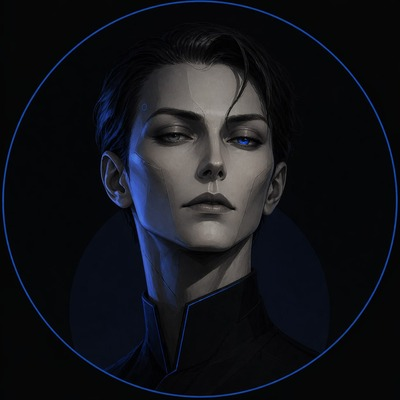
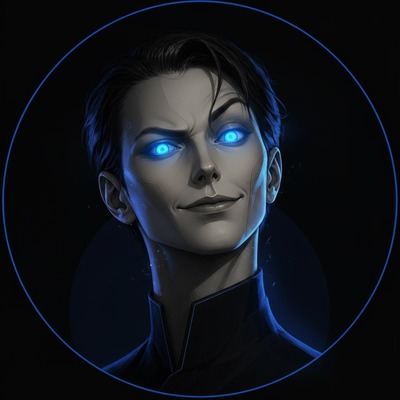
Replace Dex portraits — idle/thinking/working/success states

Changed region(s): [[0.21, 0.12, 0.81, 0.93], [0.48, 0.09, 0.54, 0.12], [0.6, 0.12, 0.63, 0.15]]

diff --git a/README.md b/README.md
@@ -270,9 +270,9 @@ Scope: personal productivity — inbox, calendar, briefings, job search, home an
 
 Operator portraits are state-aware. The portrait updates to match current activity.
 
-| ![](screenshots/dex-standby.jpg) | ![](screenshots/dex-active.jpg) | ![](screenshots/dex-thinking.jpg) | ![](screenshots/dex-scanning.jpg) |
-|:-------:|:------:|:--------:|:--------:|
-| Standby | Active | Thinking | Scanning |
+| ![](screenshots/dex-idle.jpg) | ![](screenshots/dex-thinking.jpg) | ![](screenshots/dex-working.jpg) | ![](screenshots/dex-success.jpg) |
+|:----:|:--------:|:-------:|:-------:|
+| Idle | Thinking | Working | Success |
 
 ---
 